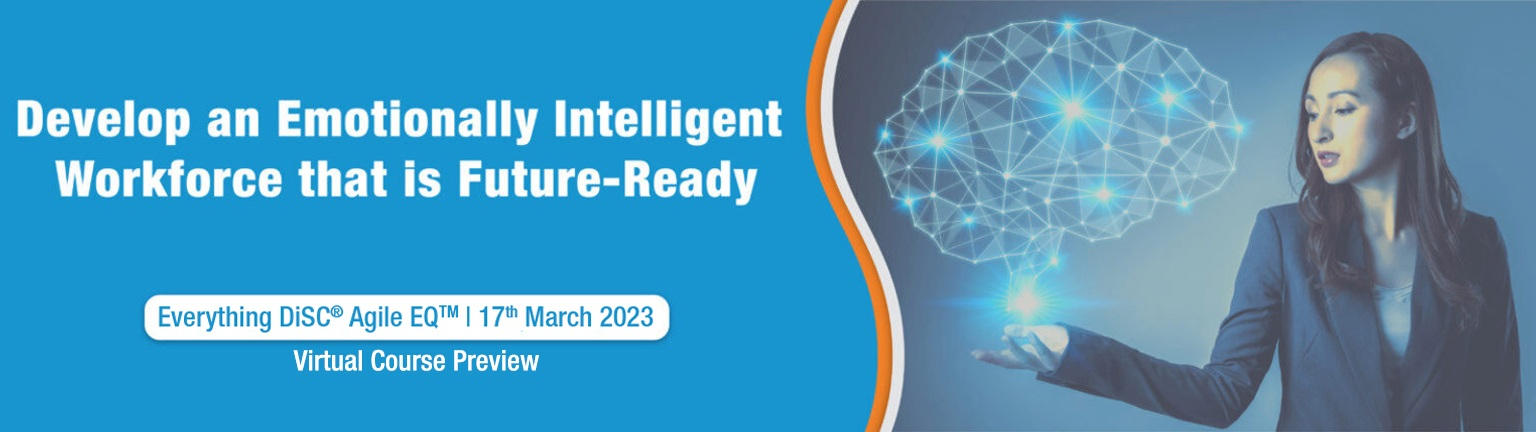
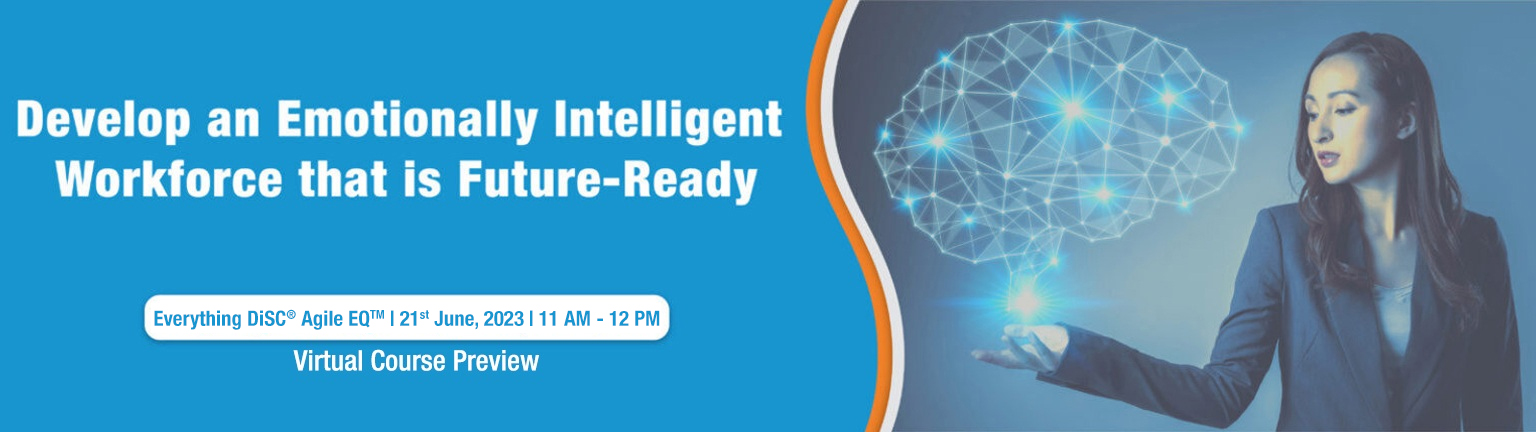
ch

Changed region(s): [[0.0938, 0.6921, 0.4375, 0.7824]]

diff --git a/pages/fivebehaviors/five-behaviours-team-development-webinar.js b/pages/fivebehaviors/five-behaviours-team-development-webinar.js
@@ -120,7 +120,7 @@ export default function FiveBWebinar(){
                                         <div className="col-sm-6 mb-12">
                                             <select name="interested" required>
                                                 <option value="">Pick up any Slot*</option>
-                                                <option value="17th February 2023 The Five Behaviors<sup>®</sup> Team Development Webinar">17th February 2023 The Five Behaviors® Team Development Webinar</option>
+                                                <option value="21st June 2023 The Five Behaviors<sup>®</sup> Team Development Webinar">21st June 2023 The Five Behaviors® Team Development Webinar</option>
                                             </select>
                                         </div>
 

diff --git a/pages/everythingdisc/everything-disc-productive-conflict-webinar.js b/pages/everythingdisc/everything-disc-productive-conflict-webinar.js
@@ -115,7 +115,7 @@ export default function EDSalesWorkshop() {
                                             <div className="col-sm-6 mb-12">
                                                 <select name="slot" required>
                                                     <option value="">Pick up any Slot*</option>
-                                                    <option value="December 16th 2022, DiSC Productive Conflict">December 16th 2022, DiSC Productive Conflict</option>
+                                                    <option value="July 5th 2023, DiSC Productive Conflict">July 5th 2023, DiSC Productive Conflict</option>
                                                 </select>
                                             </div>
                                             <div className="col-sm-6 mb-12">

diff --git a/pages/everythingdisc/everything-disc-agile-eq-webinar.js b/pages/everythingdisc/everything-disc-agile-eq-webinar.js
@@ -115,7 +115,7 @@ export default function EDSalesWorkshop() {
                                             <div className="col-sm-6 mb-12">
                                                 <select name="slot" required>
                                                     <option value="">Pick up any Slot*</option>
-                                                    <option value="March 17th 2023,  Agile EQ">March 17th 2023,  Agile EQ</option>
+                                                    <option value="June 21st 2023, Agile EQ">June 21st 2023, Agile EQ</option>
                                                 </select>
                                             </div>
                                             <div className="col-sm-6 mb-12">

diff --git a/pages/webinars-and-program-experience.js b/pages/webinars-and-program-experience.js
@@ -200,7 +200,7 @@ export default function WebinarsAndProgramExperience(){
                             </div>
                             <div className='eventbottom'>
                             <h4 className="eventtitlec">Time: 3:00 PM - 4:00 PM</h4>
-                                <h3>Everything DiSC Work Productive Conflict</h3>
+                                <h3>Everything DiSC Productive Conflict</h3>
                                 <a className="eventbtn" href='#Register'>Reserve Your Seat</a>
                             </div>
                         </div>
